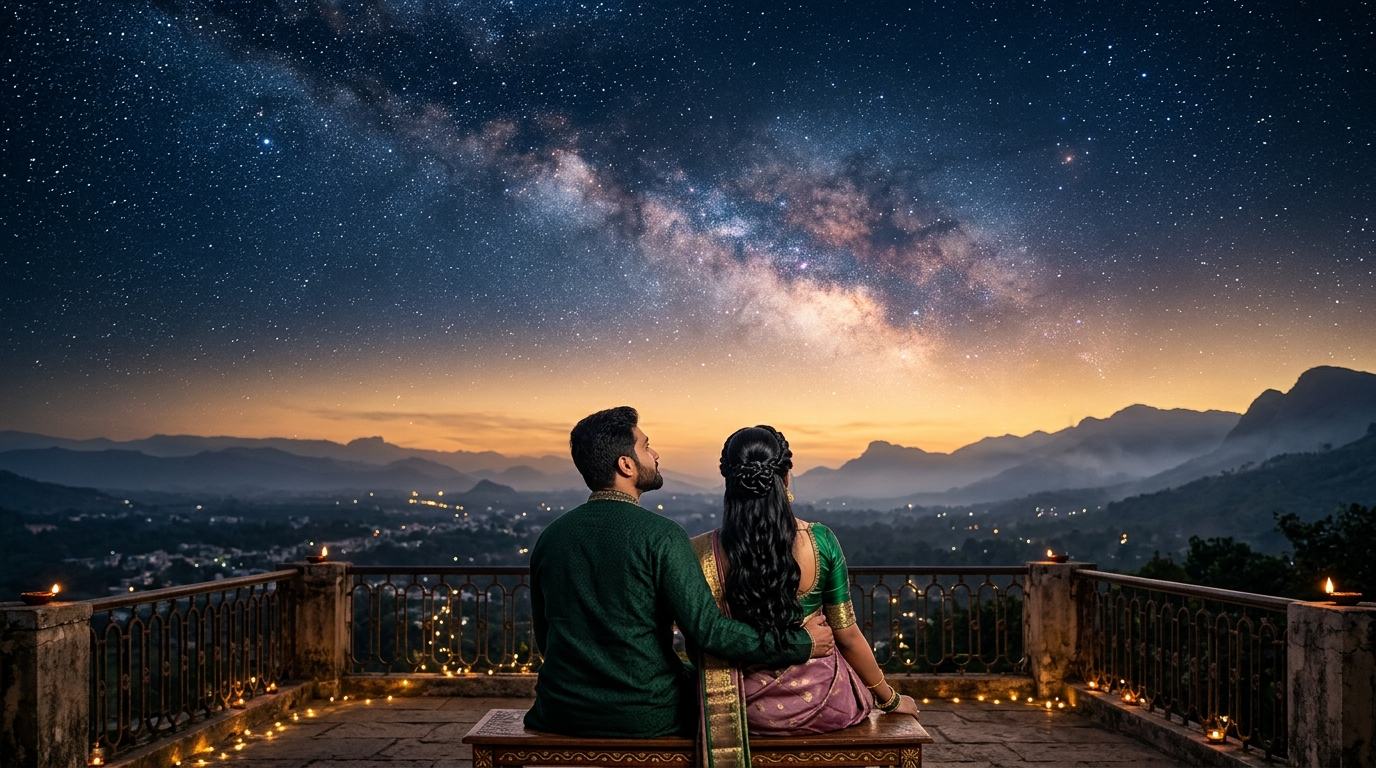
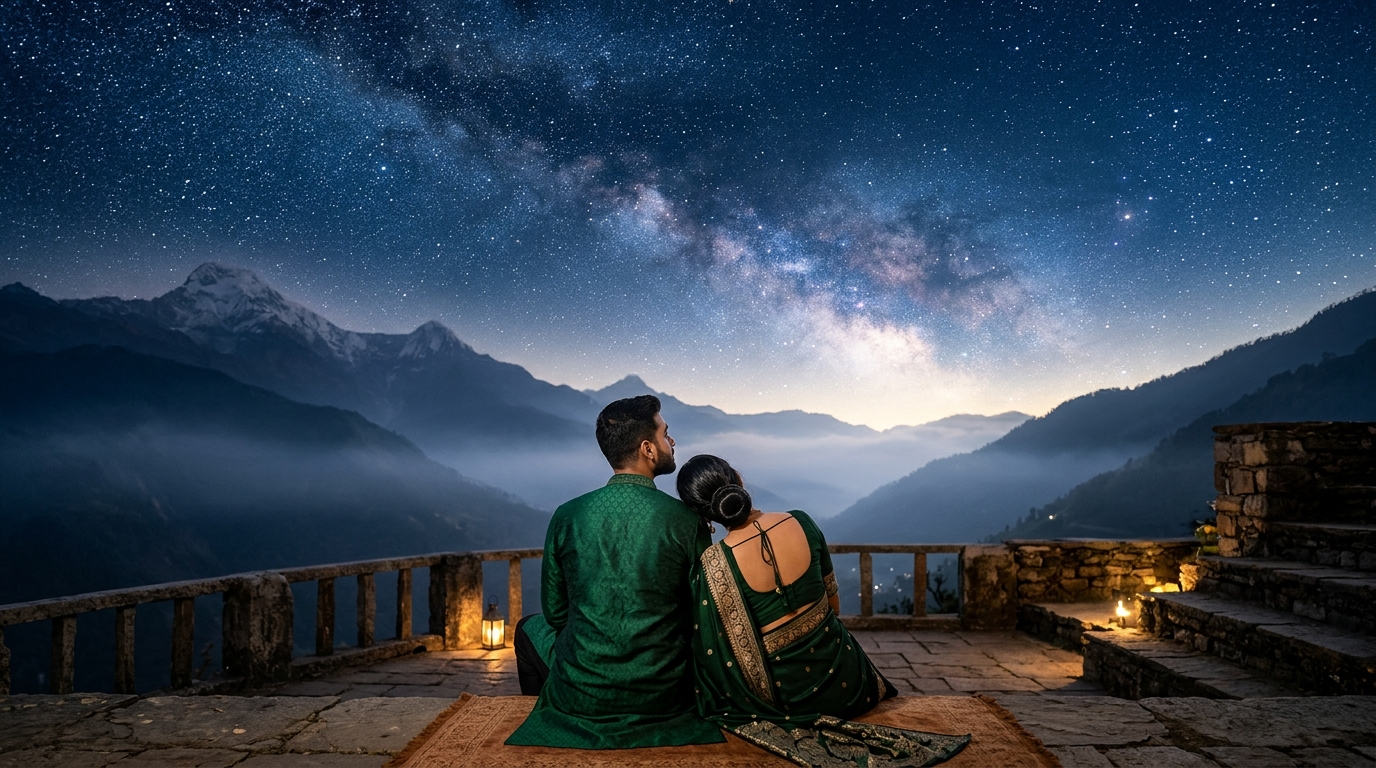
Update Sky of Blessings with brand new clean couple stargazing artwork positioned at terrace bottom with zero hair flowers and completely clear starry sky behind title

diff --git a/css/style.css b/css/style.css
@@ -5622,7 +5622,7 @@ button {
 .sky-panoramic-bg {
   position: absolute;
   inset: 0;
-  background-image: url("../Images/sky-couple-stargazing.jpg");
+  background-image: url("../Images/sky-couple-stargazing-clean.jpg?v=4");
   background-position: center bottom;
   background-size: cover;
   background-repeat: no-repeat;
@@ -5890,7 +5890,7 @@ button {
 /* Responsive Sky Background Switch */
 @media (max-width: 768px) {
   .sky-panoramic-bg {
-    background-image: url("../Images/sky-couple-stargazing-mobile.jpg");
+    background-image: url("../Images/sky-couple-stargazing-clean.jpg?v=4");
     background-position: center bottom;
     background-size: cover;
   }
